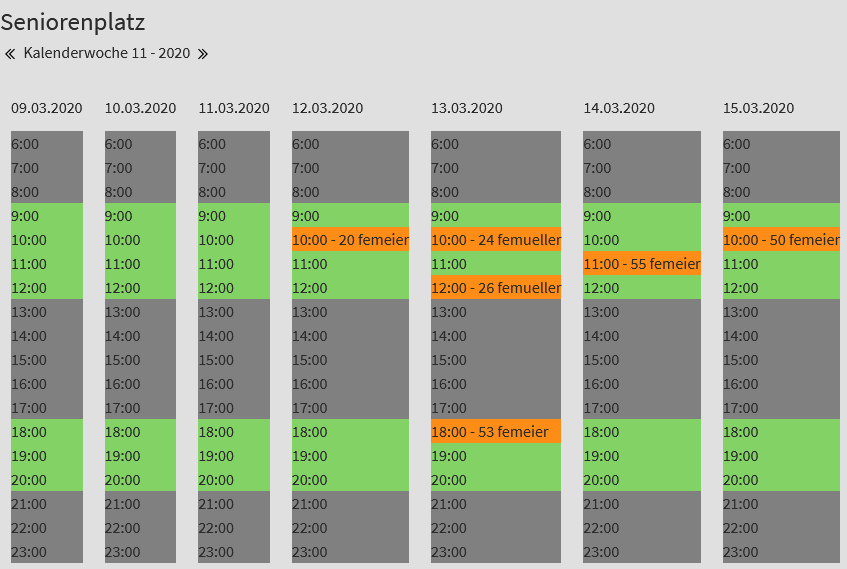
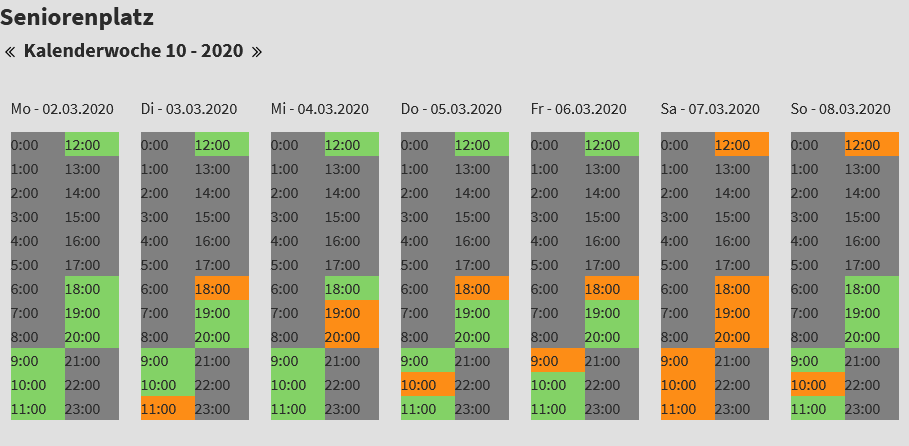
new week calendar

diff --git a/Resources/Private/Templates/Standard/NewWeek.html b/Resources/Private/Templates/Standard/NewWeek.html
@@ -47,7 +47,7 @@
 					<tr><td>
 
 					<f:for each="{hours}" as="hour">
-						<div class="object{bookobject.uid}-{hour} am-pm" hours="{bookobject.hours}">{hour}:00
+						<div class="object{bookobject.uid}-{hour}" hours="{bookobject.hours}">{hour}:00
 			
 					<script>
 					var hours = $(".object{bookobject.uid}-{hour}").attr('hours');
@@ -59,14 +59,14 @@
 					}
 					</script>
 
-						<f:for each="{bookingsAM}" as="booking" iteration="iterBooking">
+						<f:for each="{bookings}" as="booking" iteration="iterBooking">
 								<f:for each="{booking}" as="book" iteration="iterBook">
 										<f:variable name="theHour" value='<f:format.date format="H">{book.startdate}</f:format.date>' />
 										<f:variable name="theDate" value='<f:format.date format="d.m.Y">{book.startdate}</f:format.date>' />
 
 										<f:if condition="{hour} == {theHour} && {theDate} == {weekDate} && {bookobject.uid} == {book.objectuid}">
 											<f:then>
-												<span class="booked"></span>
+												<span class="booked"></span> <f:format.crop maxCharacters="1" append="">{book.first_name}</f:format.crop><f:format.crop maxCharacters="1" append="">{book.last_name}</f:format.crop>
 											</f:then>
 											<f:else>
 											</f:else>
@@ -76,53 +76,7 @@
 						</f:for>
 						</div>
 
-					<div class="object{bookobject.uid}-{hour + 12} am-pm" hours="{bookobject.hours}">{hour + 12}:00
-					<script>
-					var hours = $(".object{bookobject.uid}-{hour + 12}").attr('hours');
-					var hourArr = hours.split(',');
-					pos = ($.inArray('{hour + 12}', hourArr)); 
-					if (pos >= 0) {
-//						console.log({hour} + ' ' + pos);
-						$(".tx-booking .object{bookobject.uid}-{hour + 12}").addClass("operating");
-					}
-					</script>
-
-
-						<f:for each="{bookingsPM}" as="booking" iteration="iterBooking">
-								<f:for each="{booking}" as="book" iteration="iterBook">
-										<f:variable name="theHour" value='<f:format.date format="H">{book.startdate}</f:format.date>' />
-										<f:variable name="theDate" value='<f:format.date format="d.m.Y">{book.startdate}</f:format.date>' />
-
-										<f:if condition="{hour + 12} == {theHour} && {theDate} == {weekDate} && {bookobject.uid} == {book.objectuid}">
-											<f:then>
-												<span class="booked"></span>
-											</f:then>
-											<f:else>
-											</f:else>
-										</f:if>
-								</f:for>
-
-						</f:for>
-
-
-
-
-
-
-
-
-
-
-
-
-</div>
-
-
-
-
-
 					</f:for>					
-
 				</td></tr>
 				</table>
 			</f:for>

diff --git a/Resources/Public/CSS/booking.css b/Resources/Public/CSS/booking.css
@@ -218,8 +218,22 @@
 .tx-booking .weekView .bookobjectTitle {
 		margin-top: 30px;
 		font-size: 25px;
+		font-weight: bold;
 }
 /* Links for previos week */
 .tx-booking .previousWeek, .tx-booking .nextWeek  {
 		width: 20px;
 }
+
+.tx-booking .weekdayTable {
+		width: 110px;
+}
+.tx-booking .am-pm {
+		float: left;
+		width: 50%;
+}
+.tx-booking .weekSelector {
+		font-weight: bold;
+		font-size: 20px;
+}
+

diff --git a/Classes/Controller/BookobjectController.php b/Classes/Controller/BookobjectController.php
@@ -652,10 +652,8 @@ class BookobjectController extends \TYPO3\CMS\Extbase\Mvc\Controller\ActionContr
 
 				$bookings[$wd] = $this->bookRepository->getBookingsOfDate($this->conf['storagePid'], $dayTime, $bookobjectUid);
 
-
-//				$bookingsAM[$wd] = $this->bookRepository->getBookingsOfDateAM($this->conf['storagePid'], $dayTime);
-//				$bookingsPM[$wd] = $this->bookRepository->getBookingsOfDatePM($this->conf['storagePid'], $dayTime);
-
+				$bookingsAM[$wd] = $this->bookRepository->getBookingsOfDateAM($this->conf['storagePid'], $dayTime);
+				$bookingsPM[$wd] = $this->bookRepository->getBookingsOfDatePM($this->conf['storagePid'], $dayTime);
 
 
 			}
@@ -684,7 +682,12 @@ class BookobjectController extends \TYPO3\CMS\Extbase\Mvc\Controller\ActionContr
 				$dayTimes[] = $dayTime;
 
 				$bookings[$wd] = $this->bookRepository->getBookingsOfDate($this->conf['storagePid'], $dayTime, $bookobjectUid);
-				$operating[$bookobjectUid] = 33;
+
+				$bookingsAM[$wd] = $this->bookRepository->getBookingsOfDateAM($this->conf['storagePid'], $dayTime);
+				$bookingsPM[$wd] = $this->bookRepository->getBookingsOfDatePM($this->conf['storagePid'], $dayTime);
+
+
+//				$operating[$bookobjectUid] = 33;
 			}
 
 		}
@@ -710,7 +713,14 @@ class BookobjectController extends \TYPO3\CMS\Extbase\Mvc\Controller\ActionContr
 		$out = '<div onclick="getCalendar(' . $month . ',' . $year . ', \'month\', \'\');">Month</div> <br/>';
 		$out .= '<div onclick="getCalendar(' . $month . ',' . $year . ', \'week\', \'\');">Week</div> <br/>';
 		
-		$view = $this->getView('week');
+		if ($this->settings['useNewWeekTemplate']) {
+			$view = $this->getView('newweek');
+			$view->assign('hours', GeneralUtility::intExplode(',', $this->settings['hoursToDisplay']));
+		} else {
+			$view = $this->getView('week');
+			$view->assign('hours', [0,1,2,3,4,5,6,7,8,9,10,11]);
+		}
+
 		$view->assign('out', $out);
 		
 		$view->assign('message', $this->deletedData['error']);
@@ -726,8 +736,11 @@ class BookobjectController extends \TYPO3\CMS\Extbase\Mvc\Controller\ActionContr
 		$view->assign('dayTimes', $dayTimes);
 		$view->assign('bookobject', $bookobject);
 		$view->assign('bookings', $bookings);
-		$view->assign('hours', GeneralUtility::intExplode(',', $this->settings['hoursToDisplay']));
 	
+		$view->assign('bookingsAM', $bookingsAM);
+		$view->assign('bookingsPM', $bookingsPM);
+
+
 		$view->assign('now', time());
 		print_r($view->render());
 		exit;		

diff --git a/ext_emconf.php b/ext_emconf.php
@@ -20,7 +20,7 @@ $EM_CONF[$_EXTKEY] = [
     'uploadfolder' => 0,
     'createDirs' => '',
     'clearCacheOnLoad' => 0,
-    'version' => '1.1.4',
+    'version' => '1.2.0',
     'constraints' => [
         'depends' => [
             'typo3' => '9.5.0-10.4.99',

diff --git a/README.md b/README.md
@@ -16,6 +16,9 @@ The extension shows calendars of booking objects.  FE users can book / make a re
 #### Week view
 ![Calendar](Documentation/Images/Introduction/WeekCalendar.png "Calendar of week")
 
+#### New Week view
+![Calendar](Documentation/Images/Introduction/NewWeekCalendar.png "New Calendar of week")
+
 #### Booking form
 ![Calendar](Documentation/Images/Introduction/BookingForm.png "Booking form")
 

diff --git a/Documentation/Introduction/Index.rst b/Documentation/Introduction/Index.rst
@@ -48,6 +48,10 @@ Screenshots
 	:width: 600px
 	:alt: Week Calendar
 
+.. image:: ../Images/Introduction/NewWeekCalendar.png
+	:width: 600px
+	:alt: New Week Calendar
+
 **Booking form** 
 
 .. image:: ../Images/Introduction/BookingForm.png
